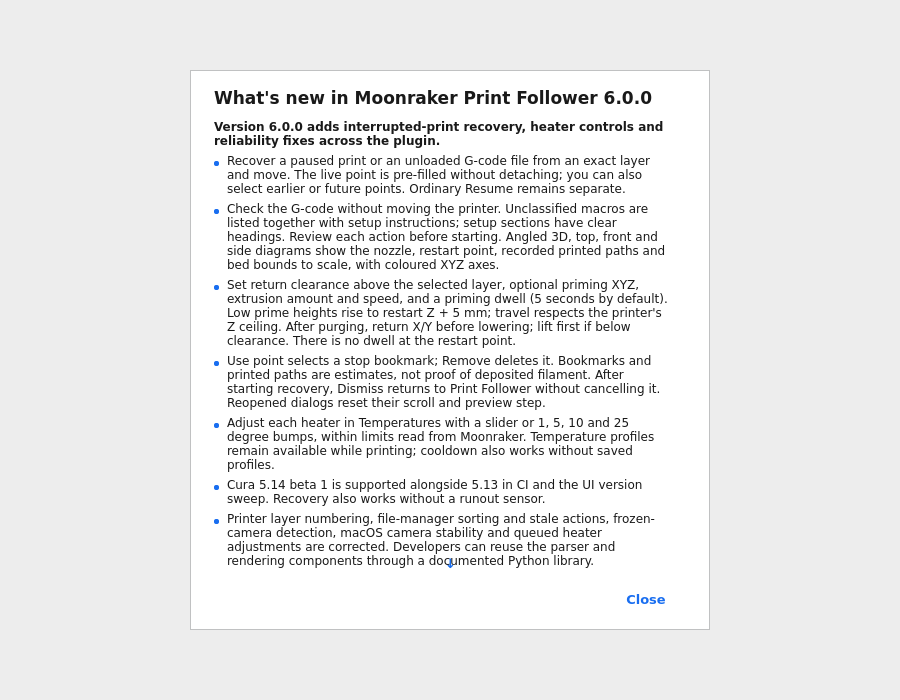
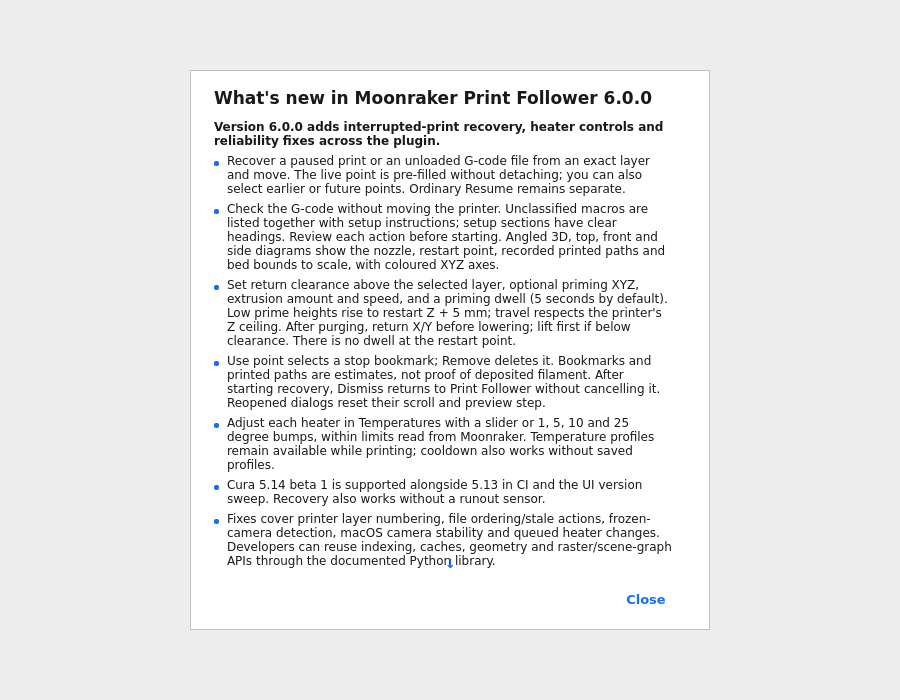
Refresh the modularity release summary and canonical screenshot

Changed region(s): [[0.2489, 0.72, 0.7467, 0.81]]

diff --git a/mpf/whatsnew/WhatsNew.py b/mpf/whatsnew/WhatsNew.py
@@ -3,7 +3,7 @@
 # Licensed under GNU GPLv3 (version 3 only); see LICENSE.
 #
 # Selected release and Git history (newest first; original provenance retained):
-# 2026-10-20 — 6.0.0: Describe narrower reusable APIs and the modular component boundaries.
+# 2026-10-20 — 6.0.0: Describe narrower reusable APIs and keep the release summary within the default view.
 # 2026-10-19 — 6.0.0: Explain batch macro review and clearer setup section headings.
 # 2026-10-19 — 6.0.0: Describe shipped changes without claiming product finality.
 # 2026-10-19 — 6.0.0: Qualify beta support without claiming an upstream renderer repair.
@@ -50,7 +50,7 @@ WHATS_NEW: Tuple[dict, ...] = (
             "Use point selects a stop bookmark; Remove deletes it. Bookmarks and printed paths are estimates, not proof of deposited filament. After starting recovery, Dismiss returns to Print Follower without cancelling it. Reopened dialogs reset their scroll and preview step.",
             "Adjust each heater in Temperatures with a slider or 1, 5, 10 and 25 degree bumps, within limits read from Moonraker. Temperature profiles remain available while printing; cooldown also works without saved profiles.",
             "Cura 5.14 beta 1 is supported alongside 5.13 in CI and the UI version sweep. Recovery also works without a runout sensor.",
-            "Printer layer numbering, file-manager sorting and stale actions, frozen-camera detection, macOS camera stability and queued heater adjustments are corrected. Developers can reuse indexing, cache/residency, geometry and separate raster/scene-graph APIs through the documented Python library.",
+            "Fixes cover printer layer numbering, file ordering/stale actions, frozen-camera detection, macOS camera stability and queued heater changes. Developers can reuse indexing, caches, geometry and raster/scene-graph APIs through the documented Python library.",
         ),
     },
     {
